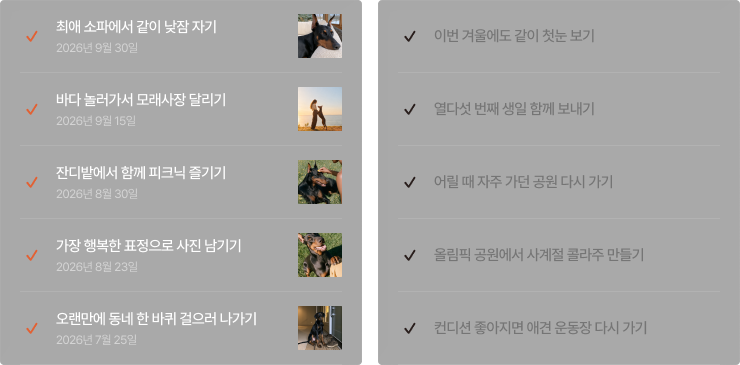
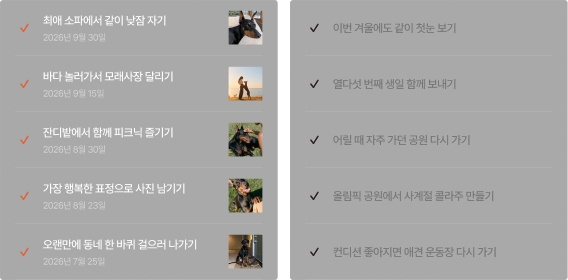
polish design details 04

diff --git a/CSS/style.css b/CSS/style.css
@@ -2015,18 +2015,17 @@ p {
     left: 0;
 }
 
-/* Figma x30 / y274, Instrument Serif Italic 100 */
 .after-service_chapter {
     position: absolute;
-    top: 36.07%;
+    top: 26.81%;
     left: 0;
     padding: 0;
 
     font-family: var(--font-serif);
     font-style: italic;
     font-weight: 400;
-    font-size: clamp(54px, min(5.20833vw, 9.25926vh), 100px);
-    line-height: 1.3;
+    font-size: clamp(54px, min(5.208vw, 9.785vh), 100px);
+    line-height: 1;
     letter-spacing: -0.04em;
 
     white-space: nowrap;
@@ -2057,19 +2056,19 @@ p {
     left: clamp(26px, 2.083vw, 40px);
 }
 
-/* Figma 패널 안 x40 / y304, SUIT Medium 35 */
 .after-service_intro_title {
     position: absolute;
-    top: 37.16%;
+    top: 29.75%;
     left: clamp(26px, 2.083vw, 40px);
     right: clamp(26px, 2.083vw, 40px);
 
     margin: 0;
 
     font-family: var(--font-ko);
-    font-weight: 600;
-    font-size: clamp(23px, min(1.823vw, 3.24074vh), 35px);
+    font-weight: 500;
+    font-size: clamp(23px, min(1.823vw, 3.425vh), 35px);
     line-height: 1.426571;
+    /* line-height: 1.25; */
     letter-spacing: -0.04em;
 
     word-break: keep-all;
@@ -2775,10 +2774,13 @@ p {
 
 .after-service_archive_side_top img {
     display: block;
-    width: auto;
+
+    width: 75%;
     height: auto;
-    max-width: 80%;
+
+    max-width: none;
     max-height: 80%;
+
     object-fit: contain;
 }
 
@@ -3988,11 +3990,11 @@ p {
     justify-content: center;
 }
 
-.after-service_archive_side_top img {
+/* .after-service_archive_side_top img {
     display: block;
     width: auto;
     height: auto;
     max-width: 88%;
     max-height: 88%;
     object-fit: contain;
-}
+} */

diff --git a/index.html b/index.html
@@ -311,7 +311,7 @@
 
                 <div class="kkamsik_background">
                     <!-- 최종 시안과 동일한 04 전체 배경 이미지 유지 -->
-                    <img src="./assets/04_kkamsik/kkamsik_fullscreen_v02.png" alt="">
+                    <img src="./assets/04_kkamsik/kkamsik_fullscreen.png" alt="">
                 </div>
 
                 <div class="kkamsik_sticky_inner grid_container">
